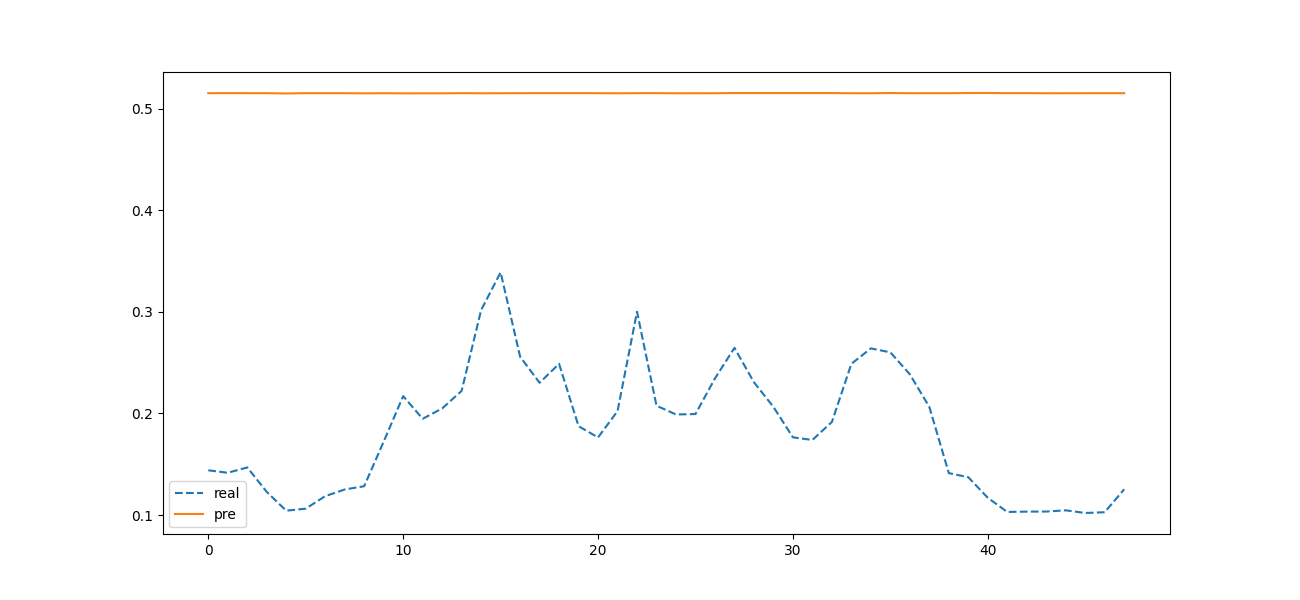
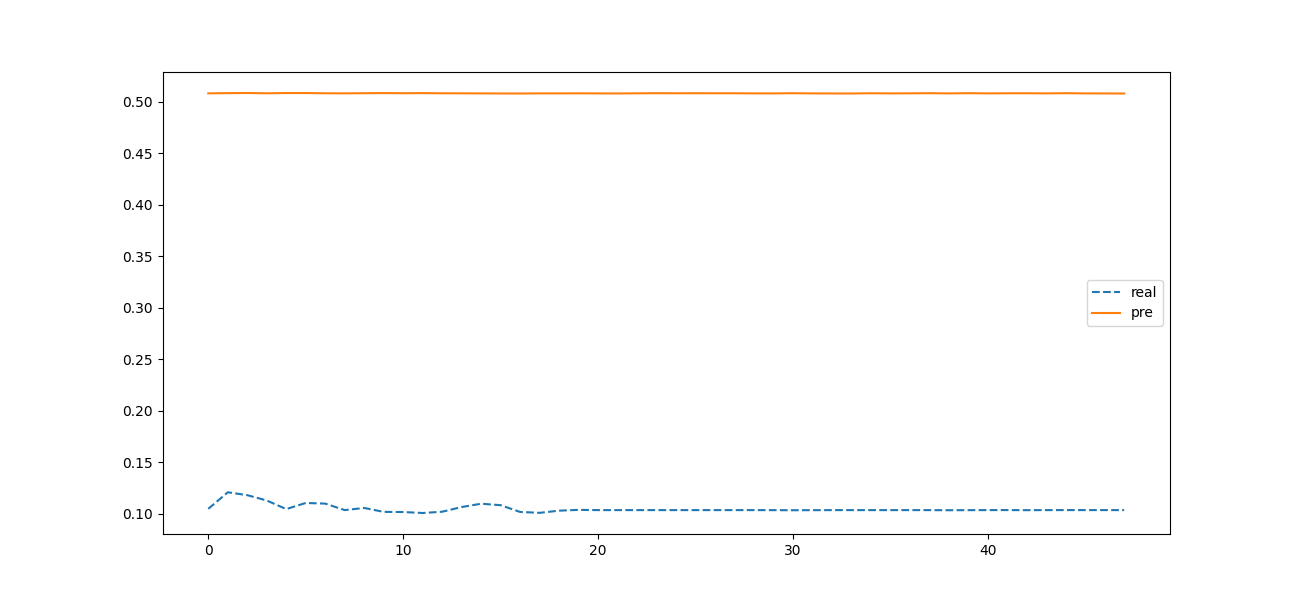
try to solve the Dense layer(should use the same dataof[tau,m])

diff --git a/models/models.py b/models/models.py
@@ -204,6 +204,9 @@ class trainer():
         self.optimizer = optim.Adam(self.myEnsemble.parameters(), lr=learning_rate)
         self.dataloader = TestDataLoader(batch_size, data_path, T0, tau, index_wind, index_other)
         self.test_dataloader = None # TODO
+
+        self.show_y = []
+        self.show_y_pre = []
     def train(self,epoch = 1):
         self.myEnsemble.train()
         for i in range(epoch):
@@ -239,32 +242,34 @@ class trainer():
             print(f'loss is {loss_test}')
             return Loss
 
-    def show(self):
+    def get_show_data(self,index):
         self.myEnsemble.eval()
         with torch.no_grad():
             self.dataloader = TestDataLoader(batch_size,data_path,T0,tau,index_wind,index_other,shuffle=False)
             for batch, (en_x, wind_x, other_x, y) in enumerate(self.dataloader):
-                # if(batch % batch_size ==1):
-                # en_x, wind_x, other_x, y = en_x.to(self.device), wind_x.to(self.device), other_x.to(self.device), y.to(self.device)
-                # alpha, beta, pi, y = self.myEnsemble(en_x, wind_x, other_x, y)
-                #
-                # y_pre = GetY_pre(alpha, beta, pi)  # TODO
-                # show_y = y[0,:]
-                # show_y_pre = y_pre[0,:]
-                #
-                # show_y = show_y.cpu().detach().numpy()
-                # show_y_pre = show_y_pre.cpu().detach().numpy()
-                #
-                # plt.figure(figsize=(13, 6))
-                # plt.plot(show_y, linestyle='--', label='real')
-                # plt.plot(show_y_pre, linestyle='-', label='pre')
-                # plt.legend()
-                # plt.savefig('new.png')
-                # plt.show()
-                # # if batch > 64*10:
-                #     break #我们只去看第一个（再去处理更多的内容有点太复杂了）
-                print(batch)
+                if batch == index :
+                    en_x, wind_x, other_x, y = en_x.to(self.device), wind_x.to(self.device), other_x.to(self.device), y.to(self.device)
+                    alpha, beta, pi, y = self.myEnsemble(en_x, wind_x, other_x, y)
 
+                    y_pre = GetY_pre(alpha, beta, pi) 
+                    show_y = y #[0,:]
+                    show_y_pre = y_pre #[0,:]
+                    show_y = show_y.cpu().detach().numpy()
+                    show_y_pre = show_y_pre.cpu().detach().numpy()
+
+                    self.show_y = show_y
+                    self.show_y_pre = show_y_pre
+                    break
+    def show(self,index):
+        show_y = self.show_y[index,:]
+        show_y_pre = self.show_y_pre[index, :]
+
+        plt.figure(figsize=(13, 6))
+        plt.plot(show_y, linestyle='--', label='real')
+        plt.plot(show_y_pre, linestyle='-', label='pre')
+        plt.legend()
+        plt.savefig('new.png')
+        plt.show()
     def save(self,name = 'model'):
         path ='..\save'
         name = name + '.pt'
@@ -282,7 +287,5 @@ class trainer():
 
 if __name__ == '__main__':
     mytrainer = trainer()
-    # mytrainer.train(epoch = 1)
-    # mytrainer.save() # 从48小时的预测结果来找到
-    # mytrainer.test()
-    mytrainer.show()
+    mytrainer.get_show_data()
+    mytrainer.show(1)
